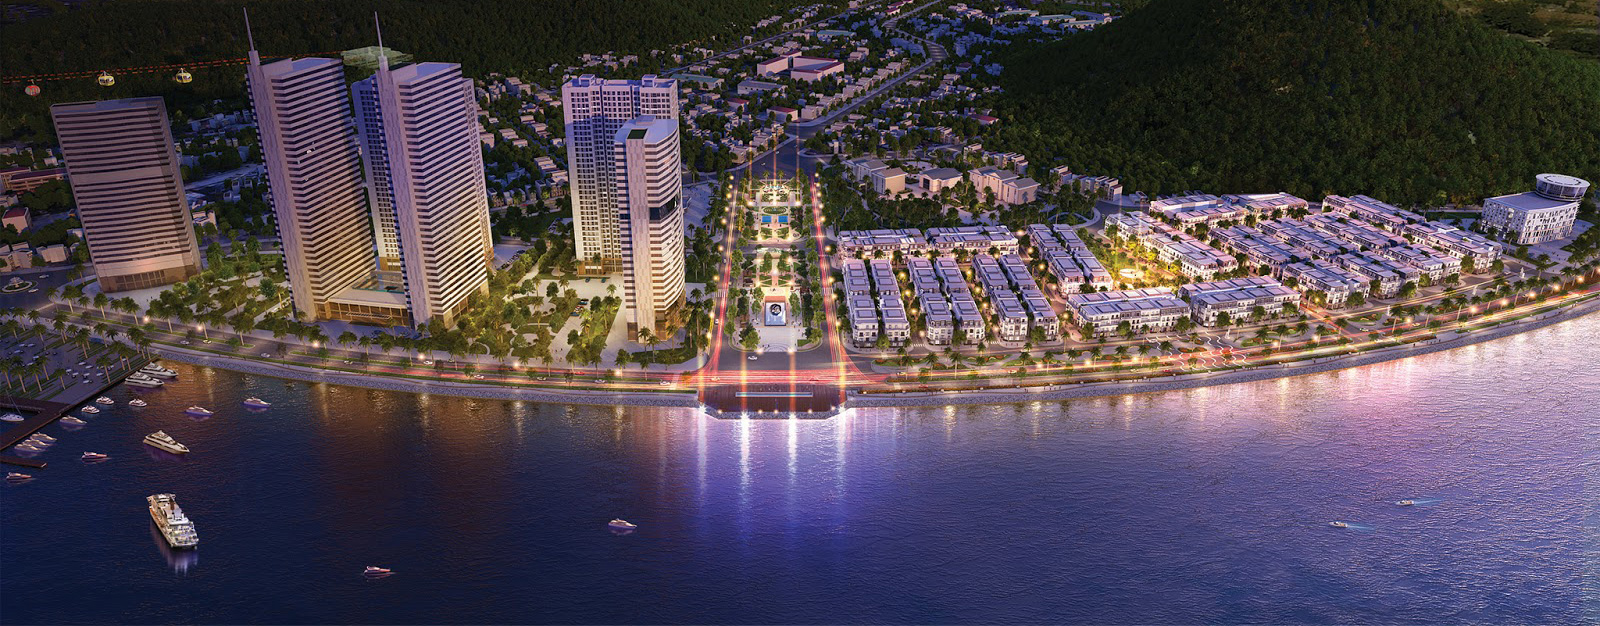
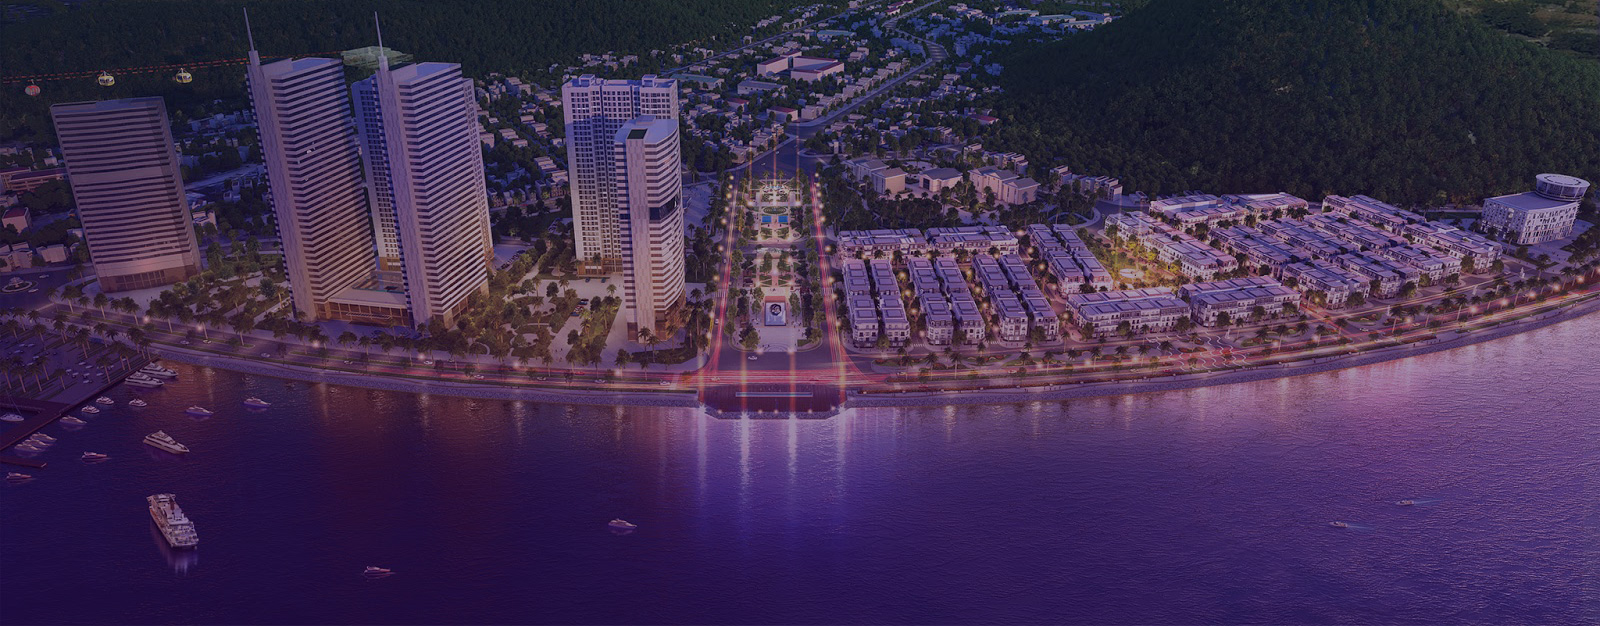
update 9

diff --git a/list.htm b/list.htm
@@ -84,15 +84,38 @@
                   <div class="sides"> <a href="#" class="menu">-</a></div>
                   <div class="info">
                         <h4><a href="#category">DỰ ÁN</a></h4>
-                        <h1>CẦU NGUYỄN KIỆM</h1>
-                        <a href="" class="btn-circle"><i class="flaticon-video-camera"></i>Hình ảnh</a>
-                        <a href="" class="btn-circle"><i class="flaticon-photo-camera-1"></i>Video dự án</a>
+                        <h2>CẦU NGUYỄN KIỆM</h2>
+                        <a href="" class="btn-circle"><i class="flaticon-photo-camera-1"></i></a>
+                        <p>Video dự án</p>
                   </div>
                 </div>
                 <section class="content">
-                    <p>Lorem ipsum dolor sit amet, consectetur adipiscing elit. In nisl turpis, porttitor et finibus id, viverra a metus. Praesent non ante sed orci posuere varius quis sit amet dui. Cras molestie magna orci, id gravida dolor molestie in. Duis sollicitudin turpis quis tortor egestas, ut ultrices nisl elementum. Vestibulum sed ipsum eget nulla laoreet cursus in ac sem. Integer a suscipit justo, quis aliquam sapien. Maecenas et tellus nibh. Vivamus tincidunt eros id commodo pellentesque.</p>
-                      <p align="center"><a href="https://twitter.com/nodws" class="btn twtr" target="_b">Follow me on Twitter</a>
-                      </p>
+                    <nav class="slidemenu">
+  
+                          <!-- Item 1 -->
+                          <input type="radio" name="slideItem" id="slide-item-1" class="slide-toggle" checked/>
+                          <label for="slide-item-1"><p class="icon">♬</p><span>TỔNG THỂ</span></label>
+                          
+                          <!-- Item 2 -->
+                          <input type="radio" name="slideItem" id="slide-item-2" class="slide-toggle"/>
+                          <label for="slide-item-2"><p class="icon">★</p><span>TẦNG 1</span></label>
+                          
+                          <!-- Item 3 -->
+                          <input type="radio" name="slideItem" id="slide-item-3" class="slide-toggle"/>
+                          <label for="slide-item-3"><p class="icon">✈</p><span>TẦNG 2</span></label>
+                          
+                          <!-- Item 4 -->
+                          <input type="radio" name="slideItem" id="slide-item-4" class="slide-toggle"/>
+                          <label for="slide-item-4"><p class="icon">✎</p><span>TẦNG 3</span></label>
+                          
+                          <div class="clearfix"></div>
+                          
+                          <!-- Bar -->
+                          <div class="slider">
+                            <div class="bar"></div>
+                          </div>
+                          
+                        </nav>
                 </section>
             <div class="vpdt-link"><i class="flaticon-earth-link"></i>VĂN PHÒNG ĐIỆN TỬ</div>
         </div>

diff --git a/css/main.css b/css/main.css
@@ -1,5 +1,6 @@
 
 /* ===================List ====================*/
+
 .banner-header{
   position: relative;
     overflow: hidden;
@@ -41,43 +42,11 @@
   transition:all 0.2s ease-in-out;
   z-index:-2
 }
-.banner-header a{
-  color:#eee
-}
-.menu{
-  display:block;
-  width:30px;
-  height:30px;
-  border:2px solid #fff;
-  border-radius:3px;
-  position:absolute;
-  right:20px;
-  top:20px;
-  text-decoration:none
-}
-.menu:after{
-  content:"";
-  display:block;
-  width:20px;
-  height:3px;
-  background:#fff;
-  position:absolute;
-  margin:0 auto;
-  top:5px;
-  left:0;
-  right:0;
-  box-shadow:0 8px, 0 16px
-}
-.logo{
-  border:2px solid #fff;
-  border-radius:3px;
-  text-decoration:none;
-  display:inline-block;
-  margin:20px;
-  padding:5px 10px;
-  font-weight:600;
-  font-size:1.2em;
-  box-sizing:border-box
+.banner-header a{font-size: 15px;color:#fff;}
+.banner-header h2{
+ font-size: 45px;
+ position: relative;
+ margin-bottom: 50px;
 }
 .sides, .info{
   flex: 0 0 auto;
@@ -99,26 +68,94 @@
   0% { transform:scale(1)}
   50% { transform:scale(1.2)}
 }
-.content{  
-  padding:5% 10%;
-  text-align:justify
-}
-.btn{
-  color:#333;
-  border:2px solid;
-  border-radius:3px;
-  text-decoration:none;
-  display:inline-block;
-  padding:5px 10px;
-  font-weight:600
-}
-
-.twtr{
-  margin-top:100px
-}
-
 .banner-header i{
-	border: 2px solid #ddd;
-    padding: 18px 20px;
-    border-radius: 50%
+	border: 1px solid #fff;
+    height: 70px;
+    width: 71px;
+    border-radius: 50%;
+    display: inline-block;
+    line-height: 65px;
 }
+
+/* TAB */
+.slide-toggle{
+  display: none;
+}
+
+.slidemenu{
+  font-family: arial, sans-serif;
+  max-width: 600px;
+  margin: 30px auto;
+  overflow: hidden;
+}
+
+.slidemenu label{
+  width: 25%;
+  text-align: center;
+  display: block;
+  float: left;
+  color: #333;
+  opacity: 0.5;
+
+}
+
+.slidemenu label:hover{
+  cursor: pointer;
+  color: #666;
+}
+
+.slidemenu label span{
+      display: block;
+    padding: 10px;
+    font-size: 13px;
+    font-weight: 400;
+}
+
+.slidemenu label .icon{
+  font-size: 20px;
+  border: solid 2px #333;
+  text-align: center;
+  height: 50px;
+  width: 50px;
+  display: block;
+  margin: 0 auto;
+  line-height: 50px;
+  border-radius: 50%;
+}
+
+/*Bar Style*/
+
+.slider{
+  width: 100%;
+    height: 2px;
+    display: block;
+    background: #ccc;
+    border-radius: 5px;
+}
+
+.slider .bar{
+  width: 25%;
+  height: 5px;
+  background: #333;
+  border-radius: 5px;
+}
+
+/*Animations*/
+.slidemenu label, .slider .bar {
+  transition: all 500ms ease-in-out;
+  -webkit-transition: all 500ms ease-in-out;
+  -moz-transition: all 500ms ease-in-out;
+}
+
+/*Toggle*/
+
+.slidemenu .slide-toggle:checked + label{
+  opacity: 1;
+}
+
+
+
+.slidemenu #slide-item-1:checked ~ .slider .bar{ margin-left: 0; }
+.slidemenu #slide-item-2:checked ~ .slider .bar{ margin-left: 25%; }
+.slidemenu #slide-item-3:checked ~ .slider .bar{ margin-left: 50%; }
+.slidemenu #slide-item-4:checked ~ .slider .bar{ margin-left: 75%; }

diff --git a/css/style.css b/css/style.css
@@ -29,7 +29,7 @@ html, body, div, span, applet, object, iframe, h1, h2, h3, h4, h5, h6, p, blockq
      border-collapse:collapse;
      border-spacing:0;
 }
- h3, h4, h2{
+h1, h3, h4, h2{
      font-family: 'iciel_brandon_textbold';
 }
 ul{padding: 0;}
@@ -92,7 +92,7 @@ input::placeholder {
      border:0;
      font-size: 13px;
      border-radius: 18px;
-     padding: 8px 30px;
+     padding: 8px 40px;
      border-radius: 30px;
      position: relative;
      margin-top: 30px;
@@ -119,6 +119,15 @@ input::placeholder {
      margin-top: 20px;
      color: #052b54;
      z-index: 2;
+}
+.item-title i{
+        height: 70px;
+    width: 70px;
+    border: 1px solid #071c33;
+    display: inline-block;
+    border-radius: 50%;
+    line-height: 63px;
+    margin-bottom: 15px;
 }
  .section-content .item-description{
      margin-bottom: 30px;
@@ -730,6 +739,7 @@ li.home{padding-top:10px !important;}
      display: flex;
      align-items: center;
      padding: 10px 28px 10px 10px;
+         line-height: 15px;
 }
  .vpdt i::before{
      color: #fff;
@@ -828,6 +838,8 @@ li.home{padding-top:10px !important;}
  .service li{
     display: flex;
     align-items: center;
+        justify-content: center;
+    font-weight: 500;
 }
  .service li i{
     margin-right: 10px;
@@ -860,7 +872,7 @@ li.home{padding-top:10px !important;}
      top: 30%;
      width: 100px;
      height: 100px;
-     box-shadow: 1px 0px 20px 10px rgba(120, 105, 158, 0.35);
+         box-shadow: 0 0 40px #a296b7;
 }
  .border-blue{
      border: 3px solid #0e81e4;
@@ -869,14 +881,14 @@ li.home{padding-top:10px !important;}
     top: 17%;
     width: 110px;
     height: 110px;
-     box-shadow: 1px 0px 20px 10px rgba(120, 105, 158, 0.35);
+        box-shadow: 0 0 40px #a296b7;
 }
  .border-yellow{
      border: 3px solid #f7d603;
      position: absolute;
      left: 110px;
      bottom: 70px;
-     box-shadow: 1px 0px 20px 10px rgba(120, 105, 158, 0.35);
+         box-shadow: 0 0 40px #a296b7;
 }
  .navbar-toggle i::before{
     color:#fff;
@@ -1013,6 +1025,7 @@ li.home{padding-top:10px !important;}
  #project .pro-item img{
      object-fit: cover;
      width: 100%;
+         min-height: 310px;
 }
  #attachment .list-attachment li{
      padding: 0 15px;
@@ -1097,7 +1110,7 @@ li.home{padding-top:10px !important;}
     color:#fff;
 }
  .news-info{
-     padding:35px;
+    padding: 20px 35px 35px 35px;
      background: #eceff3;
     text-align: justify;
 }
@@ -1226,6 +1239,7 @@ li.home{padding-top:10px !important;}
  .footer-top h3{
      color: #052b54;
      font-weight: bold;
+     font-size: 30px;
 }
 .footer-top  button{margin-top: 40px;}
  .footer-top form{
@@ -1238,12 +1252,12 @@ li.home{padding-top:10px !important;}
 }
  .footer-top .form-control{
         border-radius: 30px;
-    width: 230px;
+    width: 250px;
     font-size: 14px;
     margin: 0 5px;
     border: 1px solid #15273f;
     box-shadow: none;
-    height: 38px;
+    height: 40px;
     max-width: 100%;
 }
  .footer-body i::before{

diff --git a/index.htm b/index.htm
@@ -214,7 +214,7 @@
                         <div class="container">
                             <div class="fadeInUpShort animated vertical-align">
                                 <img class="bg-partner" src="images/trump-light.png" alt="">
-                                <h3 class="item-title">VIDEO 319</h3>
+                                <h3 class="item-title"><i class="flaticon-video-camera"></i><br>VIDEO 319</h3>
                                 <p class="txt-bottom-title">Tổng công ty 319 tiền thân là Sư đoàn 319/Quân khu 3</p>  
                                 <div class="video-list">
 
@@ -276,10 +276,9 @@
                     <section class="section animatedParent" id="attachment">
                         <div class="container section-content">
                            
-                            <h3 class="item-title">VĂN BẢN TRA CỨU</h3>
+                            <h3 class="item-title"><i class="flaticon-technology"></i><br>VĂN BẢN TRA CỨU</h3>
                                 <div class="col-lg-6 col-md-6 col-sm-6">
                                     <div class="vpdt fadeInRightShort animated delay-500">
-                                       
                                         <div class="list-attachment">
                                             <ul>
                                                 <li class="attachment-item">
@@ -511,8 +510,8 @@
                             <div class="container">
                                 <div class="text-center">
                                     <img src="images/logo319.png">
-                                    <h3>TỔNG CÔNG TY 319</h3>
-                                    <h4>BỘ QUỐC PHÒNG</h4>
+                                    <h1>TỔNG CÔNG TY 319</h1>
+                                    <h3>BỘ QUỐC PHÒNG</h3>
                                 </div>
                                 <div class="address-group">
                                     <div class="footer-body-left">
